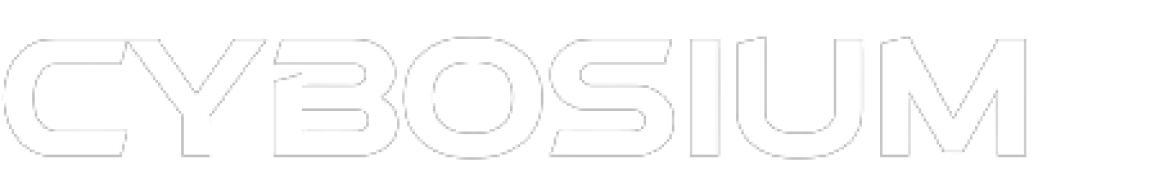
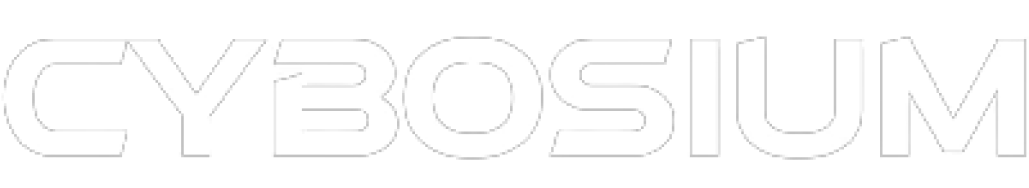
Hero Section

diff --git a/src/pages/Home/Hero/Hero.module.scss b/src/pages/Home/Hero/Hero.module.scss
@@ -1,0 +1,72 @@
+.Hero {
+    transform: translateY(-50px);
+
+    &__image {
+        height: 140px;
+
+        img {
+            height: 100%;
+        }
+    }
+
+    &__description {
+        font-size: 48px;
+        font-weight: 500;
+        font-style: italic;
+        margin-bottom: 20px;
+    }
+
+    &__date {
+        font-size: 24px;
+        font-size: 400;
+        margin-bottom: 20px;
+    }
+
+    &__buttons {
+        display: flex;
+
+        > :nth-child(1) {
+            margin-right: 20px;
+        }
+    }
+
+    @media(max-width: 808px) {
+        &__image {
+            height: 68px;
+        }
+
+        &__description {
+            font-size: 38px;
+            font-weight: 500;
+            font-style: italic;
+            margin-bottom: 20px;
+        }
+
+        &__date {
+            font-size: 18px;
+            font-size: 400;
+            margin-bottom: 20px;
+        }
+
+        &__buttons {
+            display: flex;
+            flex-direction: column;
+
+            > :nth-child(1) {
+                margin-right: 0;
+                margin-bottom: 20px;
+            }
+        }
+
+    }
+
+    @media (max-width: 425px) {
+        &__buttons {
+
+            > :nth-child(1),
+            >:nth-child(2) {
+                width: 100%;
+            }
+        }
+    }
+}

diff --git a/src/pages/Home/Home.module.scss b/src/pages/Home/Home.module.scss
@@ -1,3 +1,4 @@
+@use "../../assets/scss/variables.scss" as variables;
 @import url('https://fonts.googleapis.com/css2?family=Montserrat:ital,wght@0,100;0,200;0,300;0,400;0,500;0,600;0,700;0,800;0,900;1,100;1,200;1,300;1,400;1,500;1,600;1,700;1,800;1,900&display=swap');
 
 .Home {
@@ -6,4 +7,47 @@
     color: white;
     font-family: 'Montserrat', sans-serif;
     overflow-x: hidden;
+
+    &__container {
+        max-width: variables.$hero-width;
+        margin: 0 auto;
+    }
+
+    &__HeroWrapper {
+        display: flex;
+        flex-direction: column;
+        min-height: 100vh;
+    }
+
+    &__Hero {
+        flex-grow: 1;
+        display: flex;
+        align-items: center;
+        position: relative;
+    }
+
+    &__HeroContent {
+        z-index: 1;
+    }
+
+    &__HeroBg {
+        position: absolute;
+        bottom: 0;
+        right: 0;
+        transform: translate(120px, 280px);
+    }
+
+    @media (max-width: 1001px) {
+        padding: 0 20px;
+
+        &__HeroBg {
+            transform: translate(120px, 280px);
+        }
+    }
+
+    @media(max-width: 808px) {
+        &__HeroWrapper {
+            min-height: 80vh;
+        }
+    }
 }

diff --git a/src/pages/Home/Home.js b/src/pages/Home/Home.js
@@ -1,12 +1,27 @@
 import React from 'react'
 import styles from "./Home.module.scss"
 import Navbar from "./Navbar/Navbar"
+import Hero from "./Hero/Hero"
+import OneBotImage from "../../assets/images/one-bot.png"
 
 const Home = () => {
     return (
         <div className={styles.Home}>
-            <div className={styles.Navbar}>
-                <Navbar />
+            <div className={styles.Home__container}>
+                <div className={styles.Home__HeroWrapper}>
+                    <div className={styles.Home__Navbar}>
+                        <Navbar />
+                    </div>
+
+                    <div className={styles.Home__Hero}>
+                        <div className={styles.Home__HeroContent}>
+                            <Hero />
+                        </div>
+                        {/* <img className={styles.Home__HeroBg} src={OneBotImage} alt="" /> */}
+                    </div>
+
+                </div>
+
             </div>
         </div>
     )

diff --git a/src/pages/Home/Hero/Hero.js b/src/pages/Home/Hero/Hero.js
@@ -1,0 +1,23 @@
+import React from 'react'
+import PropTypes from 'prop-types'
+import styles from "./Hero.module.scss";
+import CybosiumImage from "../../../assets/images/cybosium.png"
+import Button from "../Button/Button"
+
+const Hero = (props) => {
+    return (
+        <div className={styles.Hero}>
+            <img className={styles.Hero__image} src={CybosiumImage} alt="Cybosium" />
+            <h2 className={styles.Hero__description}>one bot at a time</h2>
+            <p className={styles.Hero__date}>February 24th to 19 March | Novotel, Kochi</p>
+            <div className={styles.Hero__buttons}>
+                <Button text="I want to attend" filled={true} />
+                <Button text="Call for robots" filled={false} />
+            </div>
+        </div>
+    )
+}
+
+Hero.propTypes = {}
+
+export default Hero

diff --git a/src/pages/Home/Button/Button.js b/src/pages/Home/Button/Button.js
@@ -1,0 +1,17 @@
+import React from 'react'
+import PropTypes from 'prop-types'
+import styles from "./Button.module.scss";
+
+const Button = ({ text, filled, onclick = () => { } }) => {
+    return (
+        <div className={`${styles.Button} ${filled ? styles.Button__filled : ""}`} onClick={onclick}>
+            <span>{text}</span> <span><svg xmlns="http://www.w3.org/2000/svg" fill="currentColor" class="bi bi-arrow-right" viewBox="0 0 16 16">
+                <path fill-rule="evenodd" d="M1 8a.5.5 0 0 1 .5-.5h11.793l-3.147-3.146a.5.5 0 0 1 .708-.708l4 4a.5.5 0 0 1 0 .708l-4 4a.5.5 0 0 1-.708-.708L13.293 8.5H1.5A.5.5 0 0 1 1 8z" />
+            </svg></span>
+        </div >
+    )
+}
+
+Button.propTypes = {}
+
+export default Button

diff --git a/src/pages/Home/Navbar/Navbar.module.scss b/src/pages/Home/Navbar/Navbar.module.scss
@@ -4,10 +4,9 @@
     align-items: center;
     max-width: 1149px;
     margin: 0 auto;
-    padding: 0 2rem;
 
     &__image {
-        height: 152px;
+        height: 142px;
 
         img {
             height: 100%;
@@ -25,12 +24,12 @@
     }
 
     &__link {
-        font-size: 20px;
+        font-size: 18px;
         font-weight: 500;
         position: relative;
         cursor: pointer;
 
-        width: 178px;
+        width: 168px;
         border-bottom: 1px solid rgb(156, 156, 156);
         text-align: center;
         padding-bottom: 5px;
@@ -68,6 +67,7 @@
     }
 
     @media (max-width: 1001px) {
+        // padding: 0 20px;
         flex-direction: column;
         align-items: flex-start;
 

diff --git a/src/pages/Home/Button/Button.module.scss b/src/pages/Home/Button/Button.module.scss
@@ -1,0 +1,28 @@
+.Button {
+    width: fit-content;
+    min-width: 321px;
+    padding: 26px;
+    font-weight: 600;
+    font-size: 20px;
+    display: flex;
+    align-items: center;
+    cursor: pointer;
+    border: 2px solid white;
+    color: white;
+    background-color: transparent;
+
+    &__filled {
+        background-color: #6A0EDF;
+        border: 2px solid #6A0EDF;
+    }
+
+    span:nth-child(1) {
+        flex-grow: 1;
+    }
+
+    span:nth-child(2) {
+        svg {
+            width: 28px;
+        }
+    }
+}

diff --git a/src/assets/scss/variables.scss b/src/assets/scss/variables.scss
@@ -1,0 +1,1 @@
+$hero-width: 1149px;
